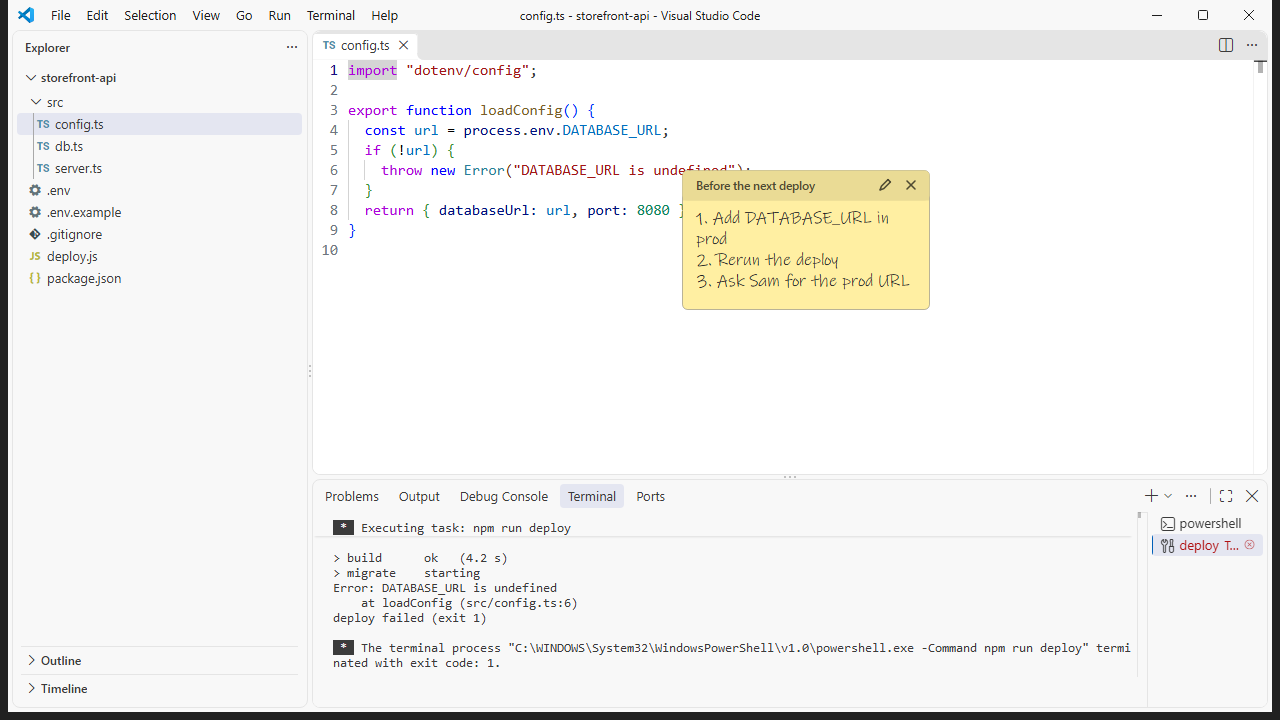
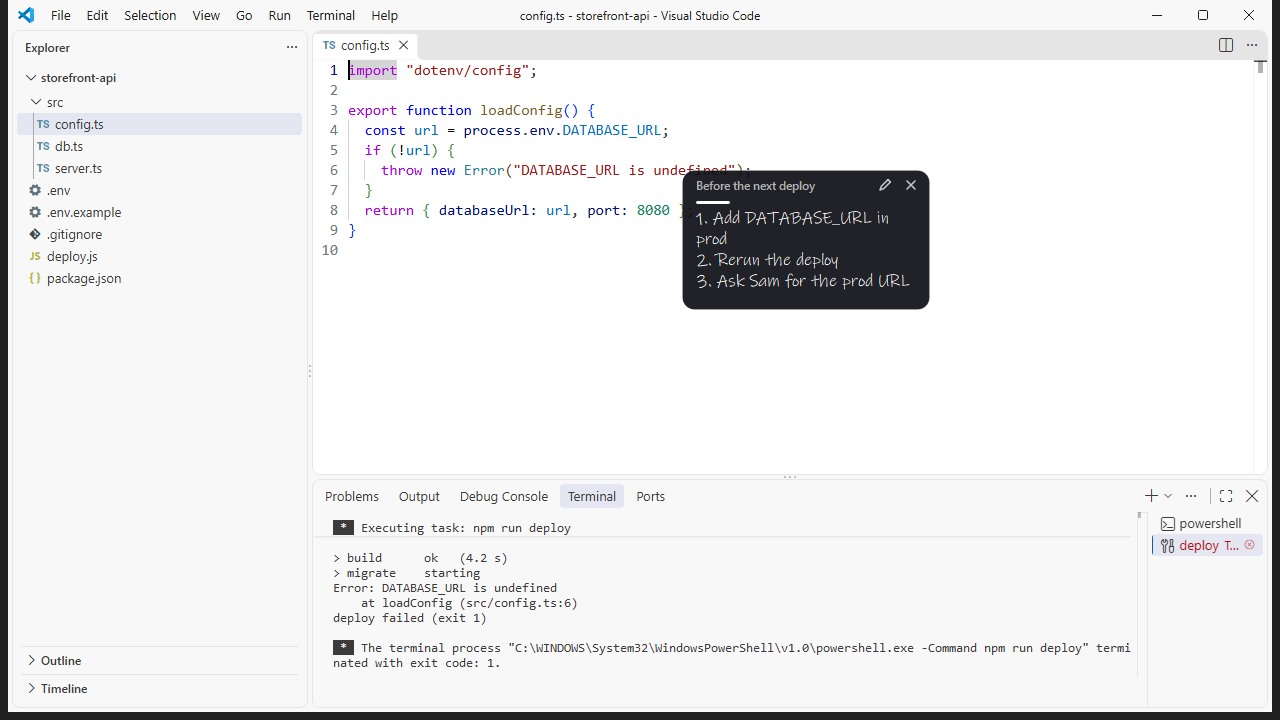
Screen Overlay 0.3.1: notes that stay are glass notes
The draggable, editable note now looks like the other glass notes: white
handwriting on dark glass with a short accent rule, instead of yellow paper.
Behaviour is unchanged: it stays until closed, can be dragged without taking
focus, and is edited on double-click. The tool action is still `sticky`.

README shows the overlay over Chrome, PowerPoint and Paint as well as VS Code.

Changed region(s): [[0.5312, 0.2139, 0.75, 0.4278]]

diff --git a/daemon/sticky.py b/daemon/sticky.py
@@ -1,4 +1,7 @@
-"""Sticky notes: small paper notes Hermes leaves on screen, that the user can drag and edit.
+"""Pinned glass notes: handwritten notes on dark glass that stay, and that the user can drag and edit.
+
+They look like the glass notes `show` draws, but each is its own small window (the tool calls them
+"sticky").
 
 A sticky takes mouse clicks without activating, like the step guide, so dragging one never steals
 focus. Editing is the one exception in the whole overlay: a double-click (or the pencil) lets the
@@ -20,7 +23,10 @@ W = 248.0
 PAD = 14.0
 HEAD = 30.0
 MIN_BODY = 64.0
-INK = QColor("#1D1D22")
+GLASS = QColor(14, 16, 22, 236)
+GLASS_EDGE = QColor(255, 255, 255, 34)
+INK = QColor(255, 255, 255)
+SOFT = QColor(255, 255, 255, 170)
 INK_FAMILIES = ["Ink Free", "Segoe Print", "Segoe UI"]
 
 
@@ -38,12 +44,11 @@ def _ui_font(px: float, weight=QFont.DemiBold) -> QFont:
     return f
 
 
-def paper(color: str) -> QColor:
-    """The note's paper: the mark colour, washed out so dark handwriting reads on it."""
+def accent(color: str) -> QColor:
+    """The note's accent, lifted if it is too dark to read on the glass."""
     c = QColor(color)
-    k = 0.62
-    return QColor(round(c.red() + (255 - c.red()) * k), round(c.green() + (255 - c.green()) * k),
-                  round(c.blue() + (255 - c.blue()) * k))
+    lum = 0.2126 * c.redF() + 0.7152 * c.greenF() + 0.0722 * c.blueF()
+    return c.lighter(170) if lum < 0.35 else c
 
 
 class Sticky(QWidget):
@@ -53,7 +58,7 @@ class Sticky(QWidget):
         self.setAttribute(Qt.WA_TranslucentBackground)
         self.setAttribute(Qt.WA_ShowWithoutActivating)
         self.setMouseTracking(True)
-        self.setWindowTitle("Hermes Sticky Note")
+        self.setWindowTitle("Hermes Note")
         self.d = dict(data)
         self.on_change, self.on_close = on_change, on_close
         self.hover: str | None = None
@@ -68,8 +73,8 @@ class Sticky(QWidget):
         self.editor.setFont(_body_font())
         self.editor.setVerticalScrollBarPolicy(Qt.ScrollBarAlwaysOff)
         self.editor.setHorizontalScrollBarPolicy(Qt.ScrollBarAlwaysOff)
-        self.editor.setStyleSheet("QPlainTextEdit { background: transparent; color: #1D1D22; "
-                                  "selection-background-color: rgba(0,0,0,60); selection-color: #1D1D22; }")
+        self.editor.setStyleSheet("QPlainTextEdit { background: transparent; color: #FFFFFF; "
+                                  "selection-background-color: rgba(255,255,255,70); selection-color: #FFFFFF; }")
         self.editor.document().setDocumentMargin(0)
         self.editor.hide()
         self.editor.installEventFilter(self)
@@ -111,23 +116,20 @@ class Sticky(QWidget):
         p = QPainter(self)
         p.setRenderHint(QPainter.Antialiasing)
         p.setRenderHint(QPainter.TextAntialiasing)
-        base = paper(self.d["color"])
+        tint = accent(self.d["color"])
         card = QRectF(self.rect()).adjusted(0.5, 0.5, -0.5, -0.5)
-        p.setPen(QPen(QColor(0, 0, 0, 70), 1))
-        p.setBrush(base)
-        p.drawRoundedRect(card, 5, 5)
-        head = QPainterPath()
-        head.addRoundedRect(QRectF(0.5, 0.5, W - 1, HEAD), 5, 5)
+        p.setPen(QPen(GLASS_EDGE, 1))
+        p.setBrush(GLASS)
+        p.drawRoundedRect(card, 12, 12)
         p.setPen(Qt.NoPen)
-        p.setBrush(base.darker(109))
-        p.drawPath(head)
-        p.fillRect(QRectF(1, HEAD - 6, W - 2, 6.5), base.darker(109))
+        p.setBrush(tint)
+        p.drawRoundedRect(QRectF(PAD, HEAD + 1, 34, 3), 1.5, 1.5)  # a short accent rule under the heading
         if self.editing:
-            p.setPen(QPen(QColor(self.d["color"]).darker(120), 2))
+            p.setPen(QPen(tint, 2))
             p.setBrush(Qt.NoBrush)
-            p.drawRoundedRect(card.adjusted(0.5, 0.5, -0.5, -0.5), 5, 5)
+            p.drawRoundedRect(card.adjusted(0.5, 0.5, -0.5, -0.5), 12, 12)
 
-        p.setPen(QColor(0, 0, 0, 170))
+        p.setPen(SOFT)
         p.setFont(_ui_font(12))
         title = self.d.get("title") or ("Editing: Esc cancels, Ctrl+Enter saves" if self.editing else "Note")
         if self.editing and self.d.get("title"):
@@ -138,10 +140,10 @@ class Sticky(QWidget):
         for key, r in self._buttons().items():
             if self.hover == key:
                 p.setPen(Qt.NoPen)
-                p.setBrush(QColor(0, 0, 0, 38))
-                p.drawRoundedRect(r, 5, 5)
+                p.setBrush(QColor(255, 255, 255, 44))
+                p.drawRoundedRect(r, 6, 6)
             p.setBrush(Qt.NoBrush)
-            p.setPen(QPen(QColor(0, 0, 0, 170), 1.5, Qt.SolidLine, Qt.RoundCap, Qt.RoundJoin))
+            p.setPen(QPen(QColor(255, 255, 255, 190), 1.5, Qt.SolidLine, Qt.RoundCap, Qt.RoundJoin))
             c = r.center()
             path = QPainterPath()
             if key == "close":

diff --git a/tool.py b/tool.py
@@ -44,8 +44,8 @@ SCHEMA: dict[str, Any] = {
         "Draw on the user's real Windows screen to show them where to look or click, and teach with it: "
         "spotlight, box, arrow, label, numbered step, a drawn pointer that glides to a target, handwritten "
         "glass notes, ink marks and small flow diagrams. A guide is a floating panel that walks the user "
-        "through steps with Next and Back. A sticky is a paper note the user can drag and edit (double-click) "
-        "and that stays until closed; read their edits back with `stickies`. Marks are click-through and "
+        "through steps with Next and Back. A sticky is a glass note that stays: the user can drag it and edit it "
+        "(double-click), and it lasts until closed; read their edits back with `stickies`. Marks are click-through and "
         "nothing takes keyboard focus unless the user chooses to edit a sticky; marks clear after "
         "ttl_seconds, and the user can clear everything with Ctrl+Alt+Shift+F12. "
         "Prefer element targets (UI Automation, pixel-exact, survives DPI scaling) over coordinates: call "
@@ -97,15 +97,15 @@ SCHEMA: dict[str, Any] = {
             },
             "notes": {
                 "type": "array",
-                "description": ("sticky: paper notes to leave on screen (max 12). The user can drag them and "
+                "description": ("sticky: glass notes that stay on screen (max 12). The user can drag them and "
                                 "double-click to edit. Reusing an id rewrites that note in place."),
                 "items": {
                     "type": "object",
                     "properties": {
                         "text": {"type": "string", "description": "The note, up to 400 chars"},
                         "title": {"type": "string", "description": "Short heading on the note's top strip"},
-                        "color": {"type": "string", "description": f"Paper tint: {', '.join(PALETTE)} or #RRGGBB "
-                                                                   "(default yellow)"},
+                        "color": {"type": "string", "description": f"Accent colour: {', '.join(PALETTE)} or #RRGGBB "
+                                                                   "(default white)"},
                         "target": TARGET,
                         "id": {"type": "string", "description": "Name it to rewrite or clear it later"},
                     },

diff --git a/tests/test_shapes.py b/tests/test_shapes.py
@@ -125,7 +125,7 @@ def test_stroke_point_count_is_bounded():
 def test_sticky_notes_are_validated():
     out = S.normalize_stickies([{"text": "  buy milk  "}, {"text": "x", "title": "T", "color": "blue", "id": "a",
                                                            "target": {"point": [5, 6]}}])
-    assert out[0] == {"id": "sticky1", "text": "buy milk", "title": "", "color": S.PALETTE["yellow"], "target": None}
+    assert out[0] == {"id": "sticky1", "text": "buy milk", "title": "", "color": S.PALETTE["white"], "target": None}
     assert out[1]["id"] == "a" and out[1]["color"] == S.PALETTE["blue"] and out[1]["target"] == {"point": [5.0, 6.0]}
     assert len(S.normalize_stickies([{"text": "y" * 5000}])[0]["text"]) == S.MAX_STICKY_TEXT
     for bad in (None, [], "x", [1], [{}], [{"text": "   "}], [{"text": 5}], [{"text": "a", "title": 3}],

diff --git a/client.py b/client.py
@@ -13,7 +13,7 @@ from pathlib import Path
 from typing import Any
 
 PLUGIN_NAME = "screen-overlay"
-DAEMON_VERSION = "0.3.0"  # must match daemon/main.py; an older running daemon is replaced
+DAEMON_VERSION = "0.3.1"  # must match daemon/main.py; an older running daemon is replaced
 DAEMON = Path(__file__).resolve().parent / "daemon" / "main.py"
 START_TIMEOUT_S = 20.0
 CREATE_NO_WINDOW = 0x08000000

diff --git a/daemon/main.py b/daemon/main.py
@@ -23,7 +23,7 @@ sys.path[:0] = [str(HERE), str(HERE.parent)]
 import shapes as S  # noqa: E402
 import winapi  # noqa: E402
 
-VERSION = "0.3.0"
+VERSION = "0.3.1"
 log = logging.getLogger("screen-overlay")
 
 

diff --git a/shapes.py b/shapes.py
@@ -28,7 +28,7 @@ MAX_STEP_TITLE = 80
 MAX_STEP_TEXT = 300
 MAX_STICKIES = 12
 MAX_STICKY_TEXT = 400
-STICKY_COLOR = "yellow"
+STICKY_COLOR = "white"
 PALETTE = {
     "orange": "#FF9F0A",
     "blue": "#0A84FF",

diff --git a/README.md b/README.md
@@ -17,16 +17,16 @@ clicking.
   screen yet. Guides can be saved and replayed without asking the model again.
 - **Glass notes.** Handwritten notes, circles, underlines, arrows and small flow diagrams write
   themselves on top of whatever you're doing, and you can click straight through them.
-- **Sticky notes.** Paper notes Hermes leaves on your screen that are yours to keep: drag them
-  anywhere, double-click to edit, close them with the ×. Hermes can read back what you wrote, so a
-  note works as a small shared scratchpad. They stay until you close them.
+- **Notes you can keep.** A glass note can also stay: drag it anywhere, double-click to edit, close
+  it with the ×. Hermes can read back what you wrote, so a note works as a small shared scratchpad.
+  The tool calls these `sticky`; they stay until you close them.
 - **Pinned to real UI elements.** Targets are resolved through Windows UI Automation. In testing, the
   element bounds matched the true on-screen pixels exactly.
 - **DPI- and multi-monitor-aware.** There is one overlay window per monitor, and drawing happens in
   physical pixels before conversion to each monitor's scale.
 - **Never takes focus.** Marks are click-through. The guide panel and sticky notes take clicks, and
   Windows is told not to activate them, so you keep typing where you were. The one exception is a
-  sticky note you choose to edit: it takes the keyboard until you press Esc or Ctrl+Enter or click
+  note you choose to edit: it takes the keyboard until you press Esc or Ctrl+Enter or click
   away, then hands it back to the app you were in. The overlay only covers
   monitors that have marks on them, and the pointer never crosses onto another monitor.
 - **Emergency clear: `Ctrl+Alt+Shift+F12`.** Wipes every mark and stops the overlay process. A small
@@ -44,13 +44,20 @@ Over real VS Code, on a project whose deploy really failed:
 | | |
 |---|---|
 | ![A spotlight and pointer on the failing line in the VS Code terminal](docs/images/real-pointer.png) | ![Step 2 of a guide marking a line in the .env file, with the step card](docs/images/real-guide.png) |
-| ![An ink circle, a glass note, an arrow to the file tree and a flow diagram over the editor](docs/images/real-notes.png) | ![A yellow sticky note the user dragged and added a third line to](docs/images/real-sticky.png) |
+| ![An ink circle, a glass note, an arrow to the file tree and a flow diagram over the editor](docs/images/real-notes.png) | ![A glass note the user dragged and added a third line to](docs/images/real-sticky.png) |
 
-These are the plugin's own overlay windows and UI Automation lookups running against real VS Code.
-They were captured on a private Windows desktop, with VS Code's window and the overlay's windows
+It is not only for code. A PDF in Chrome, a poster in PowerPoint, a photo in Paint:
+
+| | | |
+|---|---|---|
+| ![An equation circled in a PDF with a glass note explaining it](docs/images/real-study.png) | ![A poster in PowerPoint with the overlapping subtitle circled and a pointer on the Arrange menu](docs/images/real-design.png) | ![A crop frame drawn on a photo in Paint with a pointer on the Crop button](docs/images/real-photo.png) |
+
+These are the plugin's own overlay windows and UI Automation lookups running against real apps (VS Code, Chrome, PowerPoint, Paint).
+They were captured on a private Windows desktop, with the app's window and the overlay's windows
 combined frame by frame, because the live overlay is kept out of normal screenshots by default
-(`exclude_from_capture`). The `.env` item, the file tab and the Terminal menu were found by name
-through UI Automation; the code and terminal lines were given as rectangles.
+(`exclude_from_capture`). The `.env` item, the Terminal menu, PowerPoint's Arrange menu and Paint's
+Crop button were found by name through UI Automation; lines of text and regions of a page or photo
+were given as rectangles.
 
 Drawn over a staged Settings window by the same drawing code:
 
@@ -88,7 +95,7 @@ checkout into `%LOCALAPPDATA%\hermes\plugins\screen-overlay` and run
 | `show` | draws `pointer`, `step`, `spotlight`, `box`, `arrow`, `label`, `note`, `ink` and `flow` on `element`, `window`, `rect` or `point` targets. `note` and `flow` can find their own clear spot. Screenshot coordinates are rescaled when `space` is given. |
 | `guide` | starts a step guide from `steps`, or replays a saved one with `guide_name`. `save_as` keeps it. |
 | `guide_move` | `next`, `back` or a step number |
-| `sticky` | leaves paper `notes` (text, optional title, colour and target) that the user can drag and edit. Reusing an id rewrites that note where it is. Up to 12 at once. |
+| `sticky` | leaves glass `notes` that stay (text, optional title, colour and target) and that the user can drag and edit. Reusing an id rewrites that note where it is. Up to 12 at once. |
 | `stickies` | lists the notes on screen: current text, whether the user edited or moved each, and where it is |
 | `guides` | lists saved guides, or removes one with `delete` |
 | `clear` | removes all marks and any guide, or only some marks by `id` |

diff --git a/skills/screen-overlay/SKILL.md b/skills/screen-overlay/SKILL.md
@@ -1,6 +1,6 @@
 ---
 name: screen-overlay
-description: Point at things on the user's real Windows screen with the screen_overlay tool — a gliding pointer, spotlights, boxes, arrows, numbered steps, a floating step guide, handwritten glass notes, and sticky notes the user can drag and edit.
+description: Point at things on the user's real Windows screen with the screen_overlay tool — a gliding pointer, spotlights, boxes, arrows, numbered steps, a floating step guide, and handwritten glass notes, including ones that stay for the user to drag and edit.
 ---
 
 # Pointing at the user's screen
@@ -116,9 +116,9 @@ to each step, and the panel moves out of the way. Use it for three or more steps
 - Starting a guide replaces any running guide. `clear` ends it too.
 - It ends after 30 minutes with no Next or Back, or after `ttl_seconds`.
 
-## Sticky notes
+## Notes that stay (`sticky`)
 
-A sticky is a small paper note that belongs to the user once you leave it. They can drag it, double-click to edit
+A sticky is a glass note that stays and belongs to the user once you leave it. They can drag it, double-click to edit
 it, and close it. It has no timer and survives `clear`.
 
 ```json
@@ -129,14 +129,14 @@ it, and close it. It has no timer and survives `clear`.
 ]}
 ```
 
-- A `target` puts the note beside that thing; without one it takes a free corner. Colours tint the paper.
+- A `target` puts the note beside that thing; without one it takes a free corner. `color` sets its accent.
 - `{"action": "stickies"}` returns each note's current `text` and `edited_by_user`. Read it before you rewrite a
   note, and when the user says "I wrote it on the note".
 - Sending a note with an existing `id` rewrites it in place and keeps where the user dragged it. Do not overwrite a
   note whose `edited_by_user` is true unless they asked.
 - Remove notes with `{"action": "clear", "ids": ["todo"]}` or all of them with `{"action": "clear", "stickies": true}`.
   A plain `clear` leaves them alone. At most 12 notes, 400 characters each.
-- Use `note` (glass) for an explanation that should fade; use `sticky` for something the user will keep or change.
+- Use `note` for an explanation that should fade with the other marks; use `sticky` for something the user will keep or change. They look alike on purpose.
 
 ## Read the result
 
